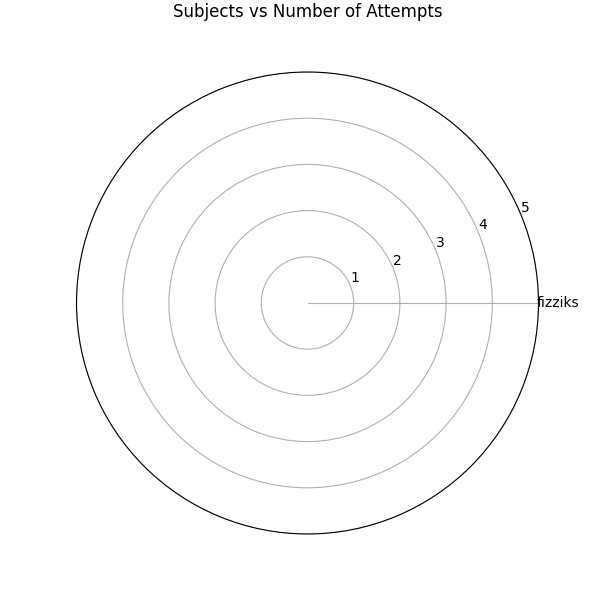
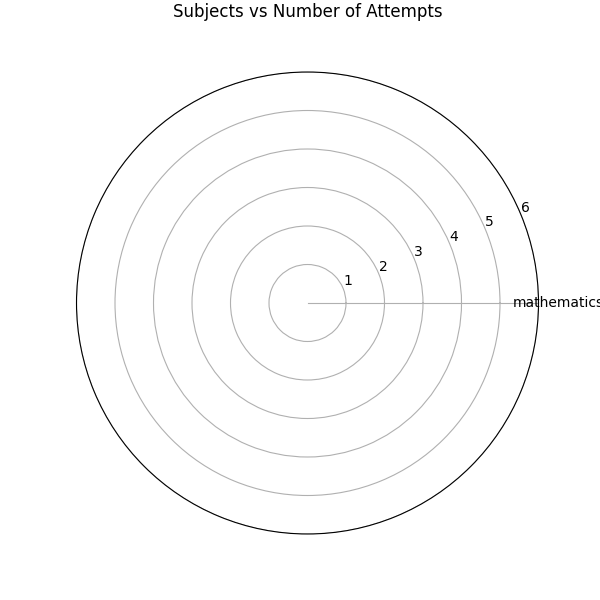
Finalized project submission with report and presentation link

diff --git a/templates/usershowquestion.html b/templates/usershowquestion.html
@@ -1,41 +1,60 @@
 {% extends "base.html" %}
-{% block title %}Quiz attempt!{% endblock %}
+
 {% block content %}
-<form method="POST">
-  <div>
-    <p>{{ question.questionstatement }}</p>
-    <p>{{ count }}/{{ total }}</p>
-  </div>
-  <div class="form-check">
-    <input class="form-check-input" type="radio" name="selectedoption" value="option1">
-    <label class="form-check-label" for="option1">
-      {{ question.option1 }}
-    </label>
-  </div>
-  <div class="form-check">
-    <input class="form-check-input" type="radio" name="selectedoption" value="option2">
-    <label class="form-check-label" for="option2">
-      {{ question.option2 }}
-    </label>
-  </div>
-  <div class="form-check">
-    <input class="form-check-input" type="radio" name="selectedoption" value="option3">
-    <label class="form-check-label" for="option3">
-      {{ question.option3 }}
-    </label>
-  </div>
-  <div class="form-check">
-    <input class="form-check-input" type="radio" name="selectedoption" value="option4">
-    <label class="form-check-label" for="option4">
-      {{ question.option4 }}
-    </label>
-  </div>
 
-  <!-- Action Buttons -->
-  <div class="mt-3">
-    <button class="btn btn-primary" type="submit" name="action" value="next">Save and Next</button>
-    <button class="btn btn-danger" type="submit" name="action" value="submit">Submit Quiz</button>
-  </div>
+<style>
+  body {
+    background: linear-gradient(to right, #f8f9fa, #e9ecef); /* Soft gradient background */
+  }
+</style>
 
-</form>
+<div class="d-flex justify-content-center align-items-center min-vh-100">
+  <form method="POST">
+    <div class="card shadow-lg p-4" style="max-width: 40rem; width: 100%;">
+      <div class="card-body">
+
+        <!-- Progress Bar -->
+        <div class="progress mb-3" style="height: 8px;">
+          <div class="progress-bar bg-primary" role="progressbar" 
+               style="width: {{ (count/total) * 100 }}%;" 
+               aria-valuenow="{{ count }}" aria-valuemin="0" aria-valuemax="{{ total }}">
+          </div>
+        </div>
+
+        <!-- Question & Progress in Same Line -->
+        <div class="d-flex justify-content-between align-items-center mb-3">
+          <h5 class="fw-bold mb-0" style="font-size: 1.4rem;">{{ question.questionstatement }}</h5>
+          <span class="badge bg-secondary p-2">{{ count }}/{{ total }}</span>
+        </div>
+
+        <!-- Options -->
+        <div class="list-group">
+          <label class="list-group-item d-flex align-items-center">
+            <input class="form-check-input me-2" type="radio" name="selectedoption" value="option1">
+            {{ question.option1 }}
+          </label>
+          <label class="list-group-item d-flex align-items-center">
+            <input class="form-check-input me-2" type="radio" name="selectedoption" value="option2">
+            {{ question.option2 }}
+          </label>
+          <label class="list-group-item d-flex align-items-center">
+            <input class="form-check-input me-2" type="radio" name="selectedoption" value="option3">
+            {{ question.option3 }}
+          </label>
+          <label class="list-group-item d-flex align-items-center">
+            <input class="form-check-input me-2" type="radio" name="selectedoption" value="option4">
+            {{ question.option4 }}
+          </label>
+        </div>
+
+        <!-- Action Buttons -->
+        <div class="mt-4 text-center">
+          <button class="btn btn-primary btn-lg me-2" type="submit" name="action" value="next">Save and Next</button>
+          <button class="btn btn-danger btn-lg" type="submit" name="action" value="submit">Submit Quiz</button>
+        </div>
+
+      </div>
+    </div>
+  </form>
+</div>
 {% endblock %}

diff --git a/templates/adminsummary.html b/templates/adminsummary.html
@@ -41,7 +41,7 @@
       <div class="card shadow-sm">
         <img src="{{ url_for('static', filename=chartname1) }}" class="card-img-top" alt="Day-wise quiz attempt">
         <div class="card-body">
-          <p class="card-text text-center">Day-wise Quiz Attempts (Chart 1)</p>
+          <p class="card-text text-center">Subject Wise Top Attempts</p>
         </div>
       </div>
     </div>
@@ -49,7 +49,7 @@
       <div class="card shadow-sm">
         <img src="{{ url_for('static', filename=chartname2) }}" class="card-img-top" alt="Day-wise quiz attempt">
         <div class="card-body">
-          <p class="card-text text-center">Day-wise Quiz Attempts (Chart 2)</p>
+          <p class="card-text text-center">Day-wise Quiz Attempts</p>
         </div>
       </div>
     </div>

diff --git a/app.py b/app.py
@@ -268,9 +268,9 @@ def addquiz():
 
         chapter_id = request.form.get("chapterid")
         quizname = request.form.get("quizname")
-        quizdate = request.form.get("quizdate")
+        quizdate = request.form.get("quizdate") or "2026-01-01"
         quizdate_format = datetime.strptime(quizdate, "%Y-%m-%d").date()
-        quizduration = request.form.get("quizduration")
+        quizduration = request.form.get("quizduration") or "00:10"
         quizduration_format = datetime.strptime(quizduration, "%H:%M").time()
         chapter = Chapter.query.filter_by(id=chapter_id).first()
         if chapter is None:
@@ -881,7 +881,6 @@ def get_scores():
         data.append({'id': score.id, 'quizid': score.quizid,'userid':score.userid, 'totalscored': score.totalscored, 'timestampofattempt': str(score.timestampofattempt)})
     return jsonify(data)
 
-#Created API endpoints for subjects, quizzes, and scores
 
 if __name__ == "__main__":
     app.run(debug=True)

diff --git a/models/subject.py b/models/subject.py
@@ -2,7 +2,7 @@ from . import db
 
 class Subject(db.Model):
     id = db.Column(db.Integer, primary_key=True)
-    name = db.Column(db.String(150), nullable=False,unique=True)
+    name = db.Column(db.String(150), nullable=False, unique=True)
     description = db.Column(db.Text)
-    
-    chapters = db.relationship('Chapter', backref='subject', lazy=True)
+
+    chapters = db.relationship('Chapter', backref='subject', cascade="all, delete-orphan", lazy=True)

diff --git a/models/quiz.py b/models/quiz.py
@@ -10,7 +10,9 @@ class Quiz(db.Model):
     
     quizname=db.Column(db.String(150), nullable=False,unique=True)
     
-    questions = db.relationship('Question', backref='quiz', lazy=True)
+   
+    questions = db.relationship('Question', backref='quiz', cascade="all, delete-orphan", lazy=True)
+    scores = db.relationship('Score', backref='quiz', cascade="all, delete-orphan", lazy=True)
     
     
     @hybrid_property

diff --git a/models/chapter.py b/models/chapter.py
@@ -6,4 +6,4 @@ class Chapter(db.Model):
     description = db.Column(db.Text)
     subject_id = db.Column(db.Integer, db.ForeignKey('subject.id'), nullable=False)
     
-    quizzes = db.relationship('Quiz', backref='chapter', lazy=True)
+    quizzes = db.relationship('Quiz', backref='chapter', cascade="all, delete-orphan", lazy=True)

diff --git a/models/score.py b/models/score.py
@@ -7,5 +7,4 @@ class Score(db.Model):
     userid = db.Column(db.Integer, db.ForeignKey('user.id'), nullable=False)
     timestampofattempt = db.Column(db.DateTime, default=datetime)
     totalscored = db.Column(db.Float)
-    quiz = db.relationship('Quiz', backref='scores')
-    user = db.relationship('User', backref='scores')
+   

diff --git a/models/user.py b/models/user.py
@@ -10,3 +10,4 @@ class User(db.Model,UserMixin):
     qualification = db.Column(db.String(150))
     dob = db.Column(db.Date)
     role=db.Column(db.String(150),nullable=False,default="user")
+    scores = db.relationship('Score', backref='user', cascade="all, delete-orphan", lazy=True)

diff --git a/README.md b/README.md
@@ -1,2 +1,4 @@
-# quiz-master
-project for mad-1 course
+Clone the repository.
+Set up a virtual environment on your local machine.
+Install all the packages listed in requirements.txt
+Run the web application.
